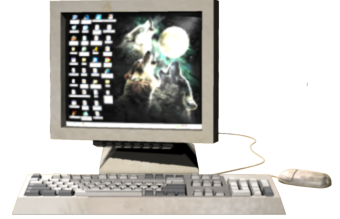
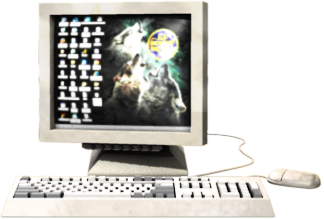
New CBP assets.

diff --git a/installer/changelog.html b/installer/changelog.html
@@ -62,6 +62,7 @@
    <li>Removed desk calendar.</li>
    <li>Advisor windows no longer show vote history, only a widget for submitting votes.</li>   
    <li>The vote window has been rewritten to allow for simpler use. It also now contains a full history of a group's votes in reverse chronological order.</li>
+   <li>New CBP office.</li>
 </ul>
 
 <h3>Bugs fixed</h3>

diff --git a/scripts/main.js b/scripts/main.js
@@ -317,7 +317,7 @@ function (objHandle, attrHandle, value) {
 
       Object.keys(PageLink).forEach(function (item) {
 
-         if (PageLink[item].highlight) { PageLink[item].highlight.hide(); }
+         if (PageLink[item].highlight) { PageLink[item].highlight.show(); }
       });
    }
 });
